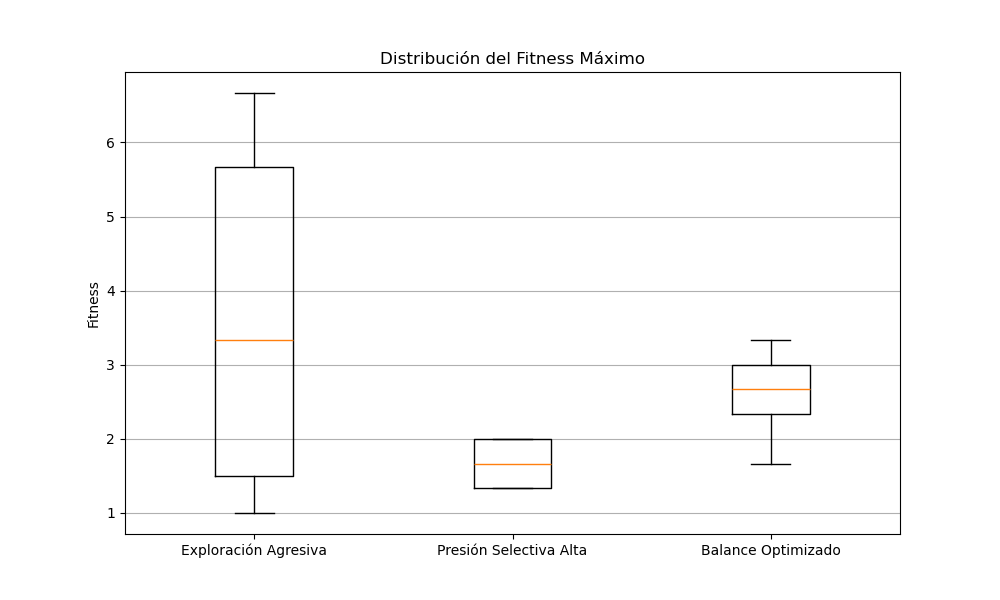
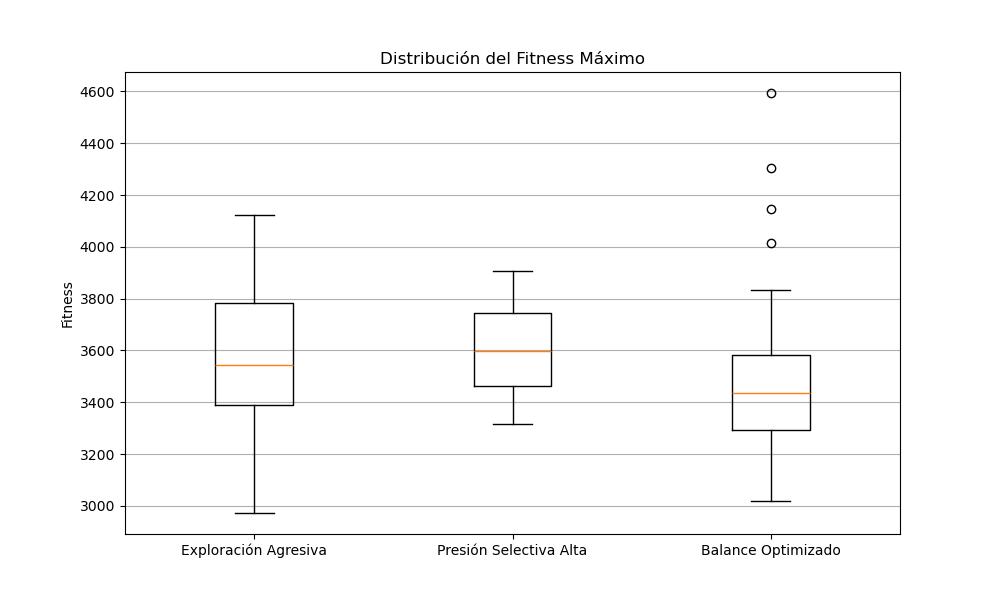
Ajustes de optimización

diff --git a/snake_experiments.py b/snake_experiments.py
@@ -346,24 +346,24 @@ def run_experiments():
     experiment_configs = [
         {
             'name': 'Exploración Agresiva',
-            'pop_size': 50,              # Aumentado a 50 (antes 30)
-            'generations': 70,           # Aumentado a 70 (antes 50)
+            'pop_size': 30,              # Aumentado a 50 (antes 30)
+            'generations': 50,           # Aumentado a 70 (antes 50)
             'mutation_rate': 0.45,       # Aumentado a 0.45 (antes 0.35)
             'elitism': 3,                # Aumentado a 3 (antes 1)
             'base_seed': int(time.time()) % 10000
         },
         {
             'name': 'Presión Selectiva Alta',
-            'pop_size': 60,              # Aumentado a 60 (antes 30)
-            'generations': 70,           # Aumentado a 70 (antes 50)
+            'pop_size': 30,              # Aumentado a 60 (antes 30)
+            'generations': 50,           # Aumentado a 70 (antes 50)
             'mutation_rate': 0.35,       # Aumentado a 0.35 (antes 0.25)
             'elitism': 5,                # Aumentado a 5 (antes 1)
             'base_seed': (int(time.time()) % 10000) + 5000
         },
         {
             'name': 'Balance Optimizado',
-            'pop_size': 55,              # Aumentado a 55 (antes 30)
-            'generations': 70,           # Aumentado a 70 (antes 50)
+            'pop_size': 30,              # Aumentado a 55 (antes 30)
+            'generations': 50,           # Aumentado a 70 (antes 50)
             'mutation_rate': 0.4,        # Aumentado a 0.4 (antes 0.3)
             'elitism': 4,                # Aumentado a 4 (antes 1)
             'base_seed': (int(time.time()) % 10000) + 10000

diff --git a/snakepy.py b/snakepy.py
@@ -550,7 +550,7 @@ class GeneticAlgorithm:
         """Inicializa la población con tablas de decisión aleatorias"""
         self.population = [DecisionTable() for _ in range(self.population_size)]
     
-    def fitness(self, agent, num_games=5, show_game=False, silent=False):
+    def fitness(self, agent, num_games=3, show_game=False, silent=False):
         """Evalúa el fitness de un agente sobre exactamente 3 juegos"""
         total_score = 0
         total_steps = 0
